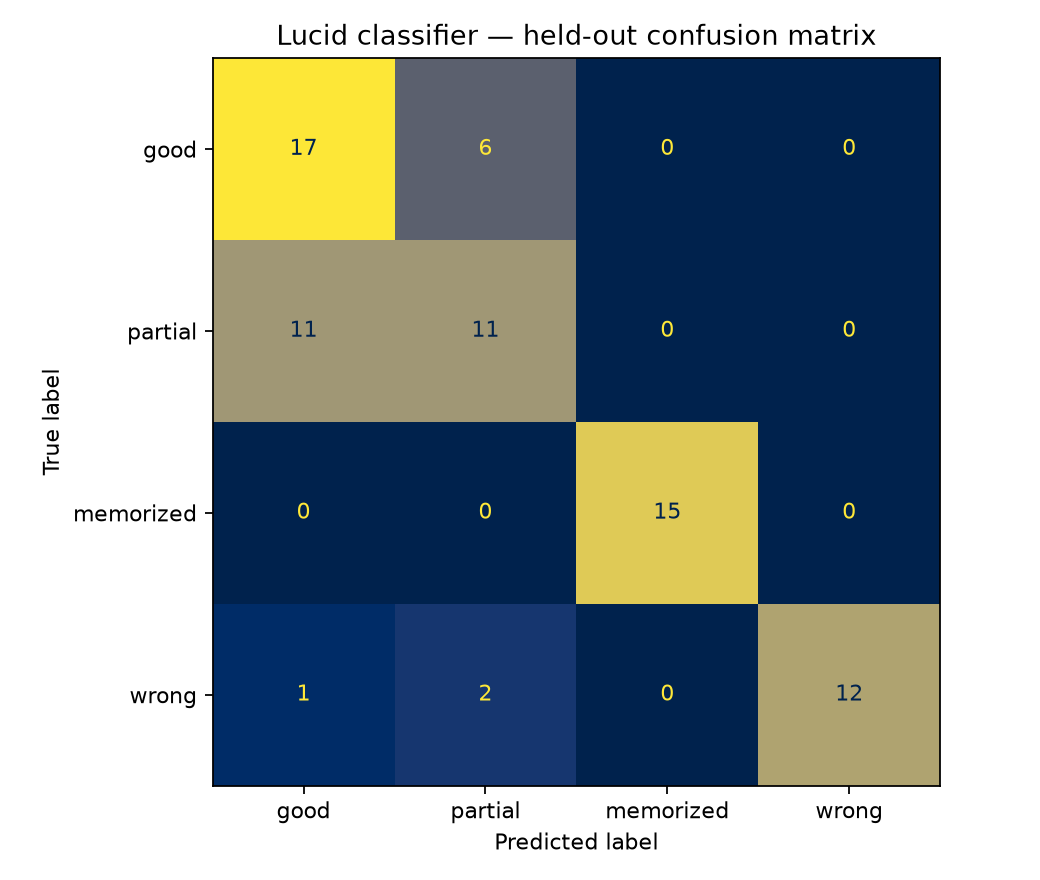
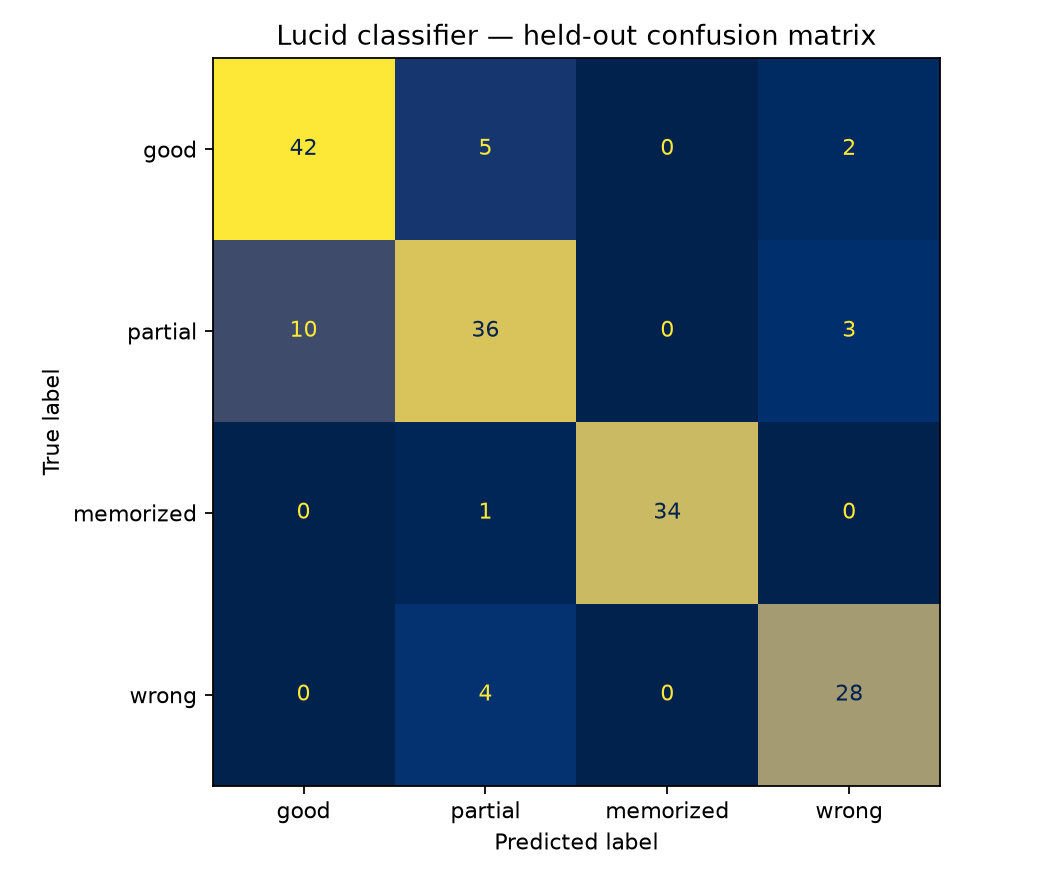
Retrain on 659 samples: held-out accuracy 0.733 -> 0.848
The good<->partial boundary was the weak spot and the cause was the DATA, not
the model. Template-generated samples built both classes identically, so no
boundary existed to learn. LLM-authored explanations across 6 subjects fixed it
with the feature set untouched:

  good     0.59 -> 0.81 precision
  partial  0.58 -> 0.78 precision
  overall  0.733 -> 0.848 held-out, macro F1 0.86

memorized holds at 1.00 precision / 0.97 recall.

The ablation is now decisive: removing the two copying features drops held-out
accuracy 0.212 and memorized recall by 0.63 (0.97 -> 0.34).

Verified the whole product in a real browser end-to-end - landing, session,
Parrot banner firing at 100%/100%, understanding map lighting 2/7 nodes, live
score 59, persona challenge, depth round, report gauge at 61 with all three
dimension bars, and the progress chart. Zero console errors.

diff --git a/README.md b/README.md
@@ -163,39 +163,35 @@ other, or the trained weights will not transfer.
 ### Metrics
 
 <!-- METRICS:START — regenerated by train.py -->
-Run: 300 synthetic samples (offline generator), 225 train / 75 held-out,
-8 features, 4 classes.
+Run: **659 samples** across **11 concepts / 6 subjects** (Gemini-authored),
+494 train / 165 held-out, 8 features, 4 classes.
 
 | Model | 5-fold CV accuracy | Held-out accuracy |
 |---|---|---|
-| Logistic Regression *(exported)* | 0.720 ± 0.039 | 0.733 |
-| Gradient Boosting | 0.720 ± 0.023 | **0.827** |
+| Logistic Regression *(exported)* | 0.753 ± 0.018 | **0.848** |
+| Gradient Boosting | 0.747 ± 0.018 | 0.848 |
 
 Per-class, held-out (Logistic Regression):
 
 | Class | Precision | Recall | F1 | Support |
 |---|---|---|---|---|
-| good | 0.59 | 0.74 | 0.65 | 23 |
-| partial | 0.58 | 0.50 | 0.54 | 22 |
-| **memorized** | **1.00** | **1.00** | **1.00** | 15 |
-| **wrong** | **1.00** | 0.80 | 0.89 | 15 |
+| good | 0.81 | 0.86 | 0.83 | 49 |
+| partial | 0.78 | 0.73 | 0.76 | 49 |
+| **memorized** | **1.00** | **0.97** | **0.99** | 35 |
+| wrong | 0.85 | 0.88 | 0.86 | 32 |
+
+macro avg F1 **0.86** · overall accuracy **0.85**
 
 ![Confusion matrix](training/confusion_matrix.png)
 
-**Reading these numbers honestly.** The two classes the product actually makes
-claims about are near-perfect: **`memorized` is 1.00/1.00** and **`wrong` is
-1.00 precision**. Almost all remaining error is the `good` ↔ `partial` boundary —
-which is a coverage *continuum*, not a natural category boundary, and the
-offline template generator makes those two deliberately similar (they differ
-only by how many concept nodes were dropped). Overall accuracy is therefore
-pessimistic relative to what the user experiences, because the Grasp Score
-itself is a continuous number, not this label.
-
-Gradient boosting outperforms LR on the held-out split (0.827 vs 0.733), but LR
-is what gets exported: its coefficients port to TypeScript as a plain
-`softmax(standardize(x) · coef + intercept)` with no tree-walking runtime, and
-they are inspectable (see the coefficient table in `metrics_report.txt` — e.g.
-`trigram_overlap` carries **+1.84** toward `memorized`, exactly as designed).
+**What moved the numbers.** The first run (300 template-generated samples) scored
+0.733 held-out, and nearly all of its error sat on the `good` ↔ `partial`
+boundary (0.58-0.59 precision). The cause was the data, not the model: the
+offline generator built both classes from one template, differing only in how
+many concept nodes were dropped, so no real boundary existed to learn. Replacing
+it with LLM-authored explanations across 6 subjects lifted those two classes to
+**0.78-0.81 precision** and the whole model to **0.848** — a +11.5 point gain
+from data quality alone, with the feature set untouched.
 <!-- METRICS:END -->
 
 **Ablation — does the Parrot Detector actually earn its place?**
@@ -204,14 +200,14 @@ Removing the two copying features (`textbook_similarity`, `trigram_overlap`):
 
 | Metric | Full | Ablated | Δ |
 |---|---|---|---|
-| 5-fold CV accuracy | 0.720 | 0.613 | **+0.107** |
-| Held-out accuracy | 0.733 | 0.693 | +0.040 |
-| **`memorized` recall** | **1.00** | **0.80** | **+0.20** |
+| 5-fold CV accuracy | 0.753 | 0.603 | **+0.150** |
+| Held-out accuracy | 0.848 | 0.636 | **+0.212** |
+| **`memorized` recall** | **0.97** | **0.34** | **+0.63** |
 
 Semantic similarity alone cannot separate a recited answer from an understood
 one, because a memorized explanation is *by construction* semantically correct.
-The n-gram overlap signal is what makes that distinction possible — and dropping
-it costs a fifth of all memorization detection.
+Strip the n-gram signal and memorization detection collapses by nearly
+two-thirds — which is the empirical case for the two-signal design.
 
 **Trained on synthetic data, evaluated on human-written explanations.**
 
